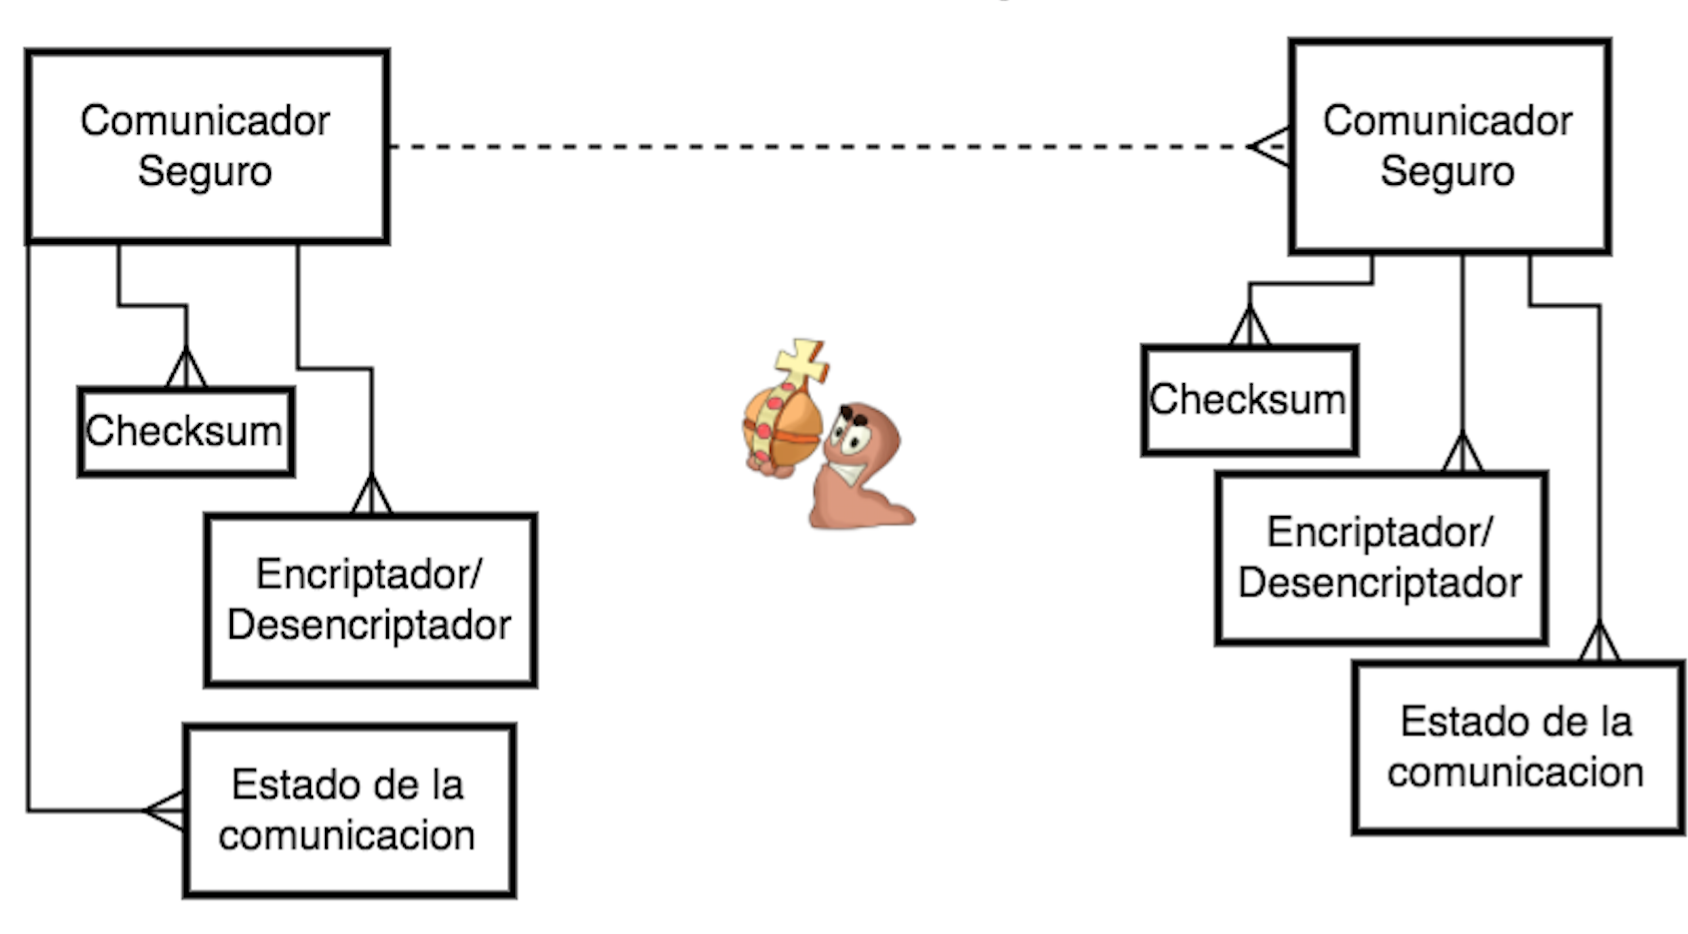
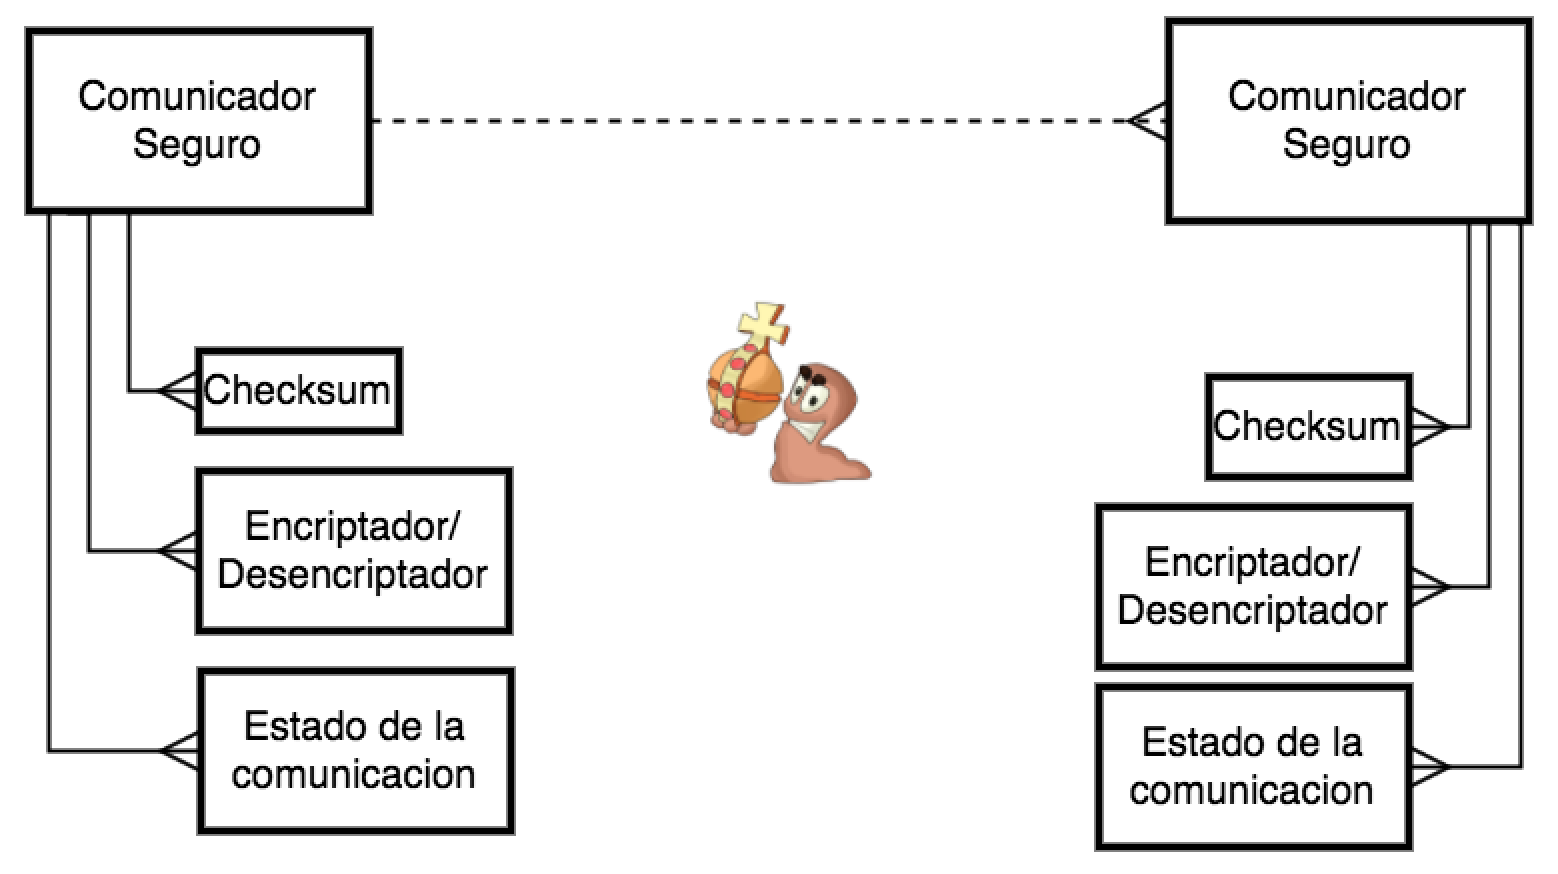
emprolijo los diagramas

Changed region(s): [[0.0, 0.0, 1.0, 0.9886], [0.4313, 0.3398, 0.5546, 0.587]]

diff --git a/tex/arquitectura.tex b/tex/arquitectura.tex
@@ -4,7 +4,7 @@
 \subsubsection{Notacion}
 
 \begin{itemize}
-\item Pipe \includegraphics[height=0.5cm]{diagramas/NPIPE} 
+\item Pipe \includegraphics[height=0.6cm]{diagramas/NPIPE} 
 \item HC (Holy Connector) \includegraphics[height=0.5cm]{diagramas/NHC} 
 \item HVC (Holy Video Connector) \includegraphics[height=0.5cm]{diagramas/NHVC} 
 \item HDC (Holy Data Connector) \includegraphics[height=0.5cm]{diagramas/NHDC} 
@@ -99,26 +99,26 @@ proident, sunt in culpa qui officia deserunt mollit anim id est laborum.
 A continuacion listamos todos los atributos de calidad detallados en la seccion anterior y explicamos como hicimos para resolverlo en el diagrama de componentes y conectores.
 
 \begin{itemize}
-\item Atributo: 
+\item Atributo: Los partidos deben servirse con excelente calidad y sin cortes a pesar de que servidores de la empresa proveedora se pueden caer sin previo aviso.
 \item Justificacion:
 
 
-\item Atributo: 
+\item Atributo: El sistema debe evitar que los servidores superen su l'imite de clientes y se caigan.
 \item Justificacion:
 
-\item Atributo: 
+\item Atributo: Desea que haya un esfuerzo por respetar a los países en los que su legislación no permite que directamente se ingrese al sitio.
 \item Justificacion:
 
-\item Atributo: 
+\item Atributo: Se requiere que sea fácil desactivar una cuenta por un tiempo, para ayudar a los adictos en recuperación.
 \item Justificacion:
 
-\item Atributo: 
+\item Atributo: El simulador debe poder extenderse para soportar reglamentaciones nuevas ya que se espera poder incluir pa'ises adicionales.
 \item Justificacion:
 
-\item Atributo: 
+\item Atributo: El sistema debe correr en la mayor cantidad de plataformas posible. El sistema debe poder extenderse f'acilmente para incluir nueva
 \item Justificacion:
 
-\item Atributo: 
+\item Atributo: Se deben poder agregar nuevos criterios para hacer data mining f'acilmente.
 \item Justificacion:
 
 \item Atributo: 

diff --git a/tex/atributos.tex b/tex/atributos.tex
@@ -113,7 +113,6 @@
   \textbf{Medición} & UNA MEDICION\\  \hline
   \end{tabular}
 \end{center} 
-
 \begin{center}
   \begin{tabular}{| l | p{10cm} | }
     \hline
